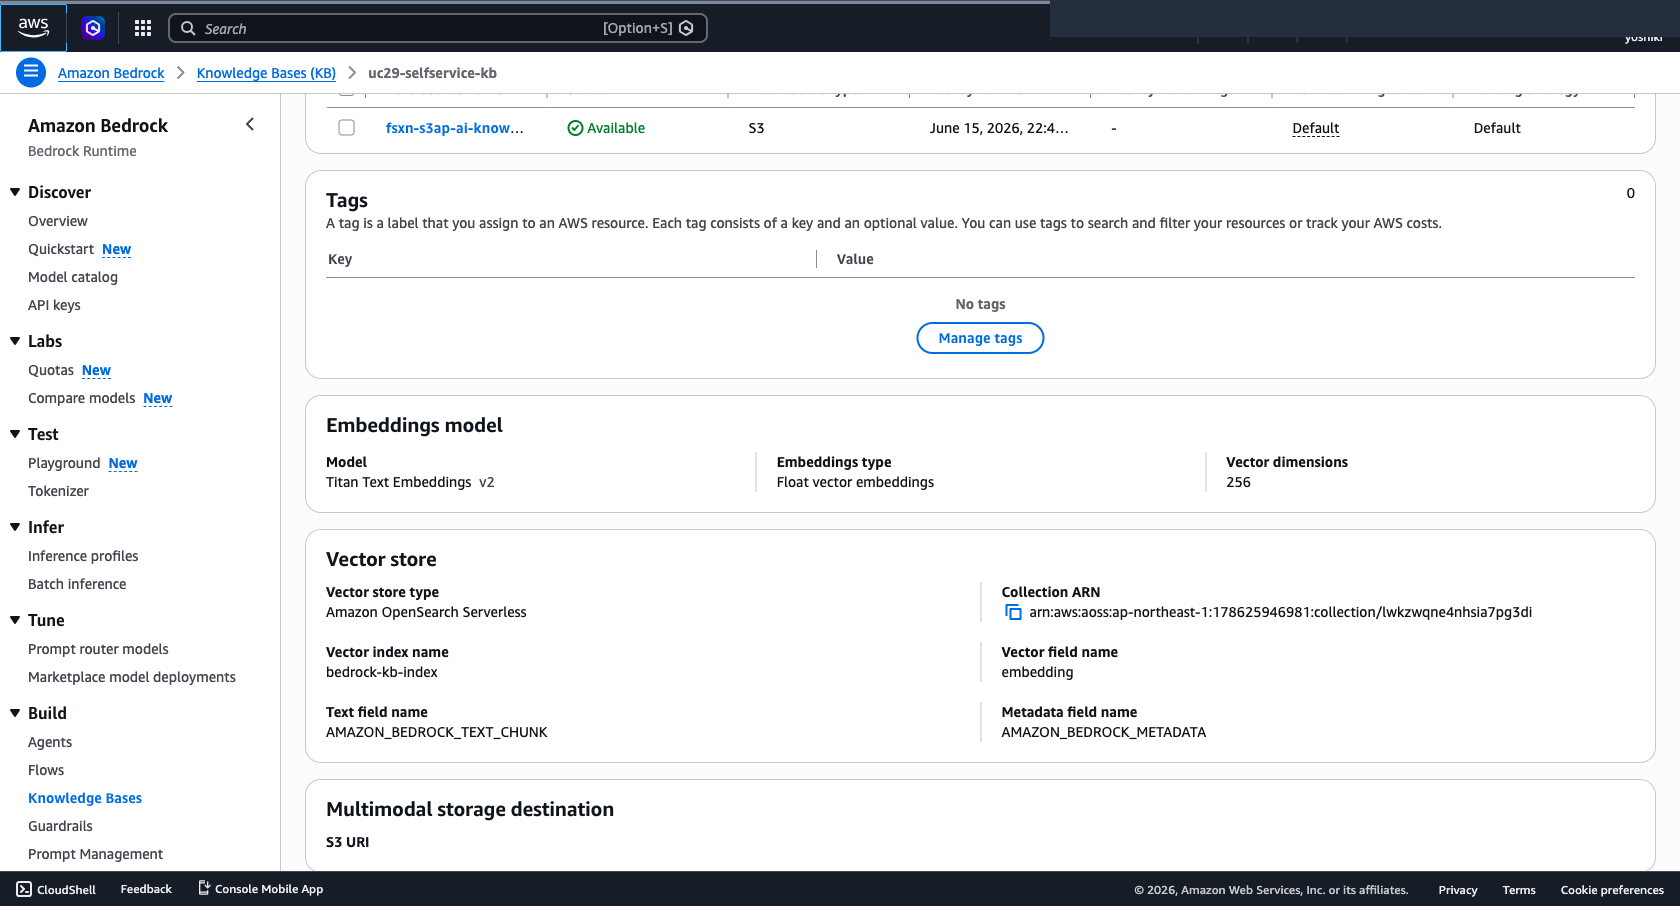
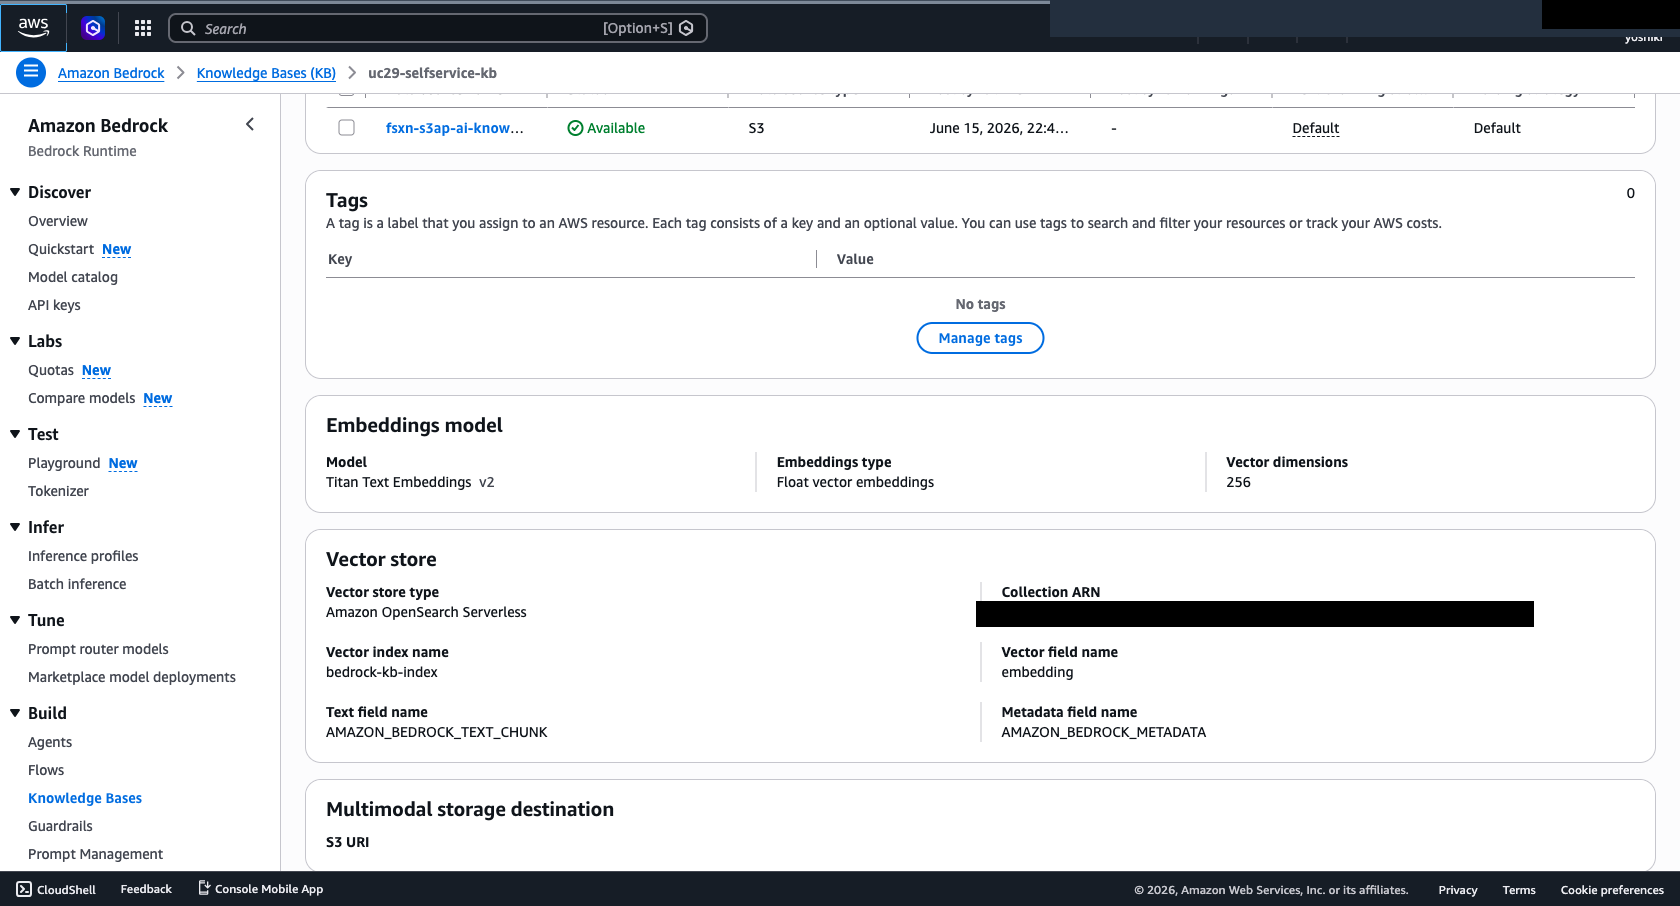
fix: mask AWS account IDs in console screenshots with black rectangles Applied black masks over regions containing AWS account ID (178625946981) in console screenshots: - step-functions-execution-succeeded.png: Execution ARN, IAM role ARN, top-right badge - bedrock-kb-datasource-sync.png: Collection

Changed region(s): [[0.5571, 0.649, 0.9286, 0.7108], [0.8976, 0.0, 1.0, 0.0309]]

diff --git a/scripts/mask_account_ids.py b/scripts/mask_account_ids.py
@@ -1,0 +1,109 @@
+#!/usr/bin/env python3
+"""Mask AWS account IDs and sensitive ARNs in screenshots.
+
+This script applies rectangular masks over regions containing
+AWS account IDs (123456789012) in console screenshots.
+
+All screenshots are 1680x906 (Phase 16 set).
+"""
+
+from PIL import Image, ImageDraw
+import os
+
+# Uniform black mask for all regions — clearly communicates redaction
+MASK_COLOR = (0, 0, 0)
+
+
+def mask_regions(input_path, regions, output_path=None):
+    """Apply colored rectangles over specified regions.
+    
+    Args:
+        input_path: Path to source image
+        regions: List of (x1, y1, x2, y2, color) tuples
+        output_path: Where to save (defaults to overwrite input)
+    """
+    if output_path is None:
+        output_path = input_path
+    
+    img = Image.open(input_path)
+    draw = ImageDraw.Draw(img)
+    
+    for x1, y1, x2, y2, color in regions:
+        draw.rectangle([x1, y1, x2, y2], fill=color)
+    
+    img.save(output_path, 'PNG')
+    print(f"  Masked {len(regions)} regions: {os.path.basename(output_path)}")
+
+
+def main():
+    base_uc29 = 'solutions/genai/kb-selfservice-curation/docs/screenshots/masked'
+    base_uc30 = 'solutions/genai/quick-agentic-workspace/docs/screenshots/masked'
+    
+    print("Phase 16 (UC29) screenshots:")
+    
+    # 1. step-functions-execution-succeeded.png (1680x906)
+    # Coordinates derived from attached 1024x558 images, scaled by ~1.64x/1.62y
+    # Exposed: Execution ARN, IAM role ARN, top-right badge
+    mask_regions(f'{base_uc29}/step-functions-execution-succeeded.png', [
+        # Top-right account badge "yoshiki" (attached: x≈940~1024, y≈0~17)
+        (1542, 0, 1680, 28, MASK_COLOR),
+        # Execution ARN line (attached: x≈200~535, y≈210~240)
+        (328, 341, 877, 390, MASK_COLOR),
+        # IAM role ARN line (attached: x≈200~530, y≈260~275)
+        (328, 422, 870, 447, MASK_COLOR),
+    ])
+    
+    # 2. bedrock-kb-datasource-sync.png (1680x906)
+    # Exposed: Collection ARN with account ID, top-right badge
+    mask_regions(f'{base_uc29}/bedrock-kb-datasource-sync.png', [
+        # Top-right account badge (same position as step-functions)
+        (1542, 0, 1680, 28, MASK_COLOR),
+        # Collection ARN (attached: x≈595~935, y≈370~385)
+        (976, 601, 1533, 626, MASK_COLOR),
+    ])
+    
+    # 3. bedrock-kb-detail.png - likely has account ARNs too
+    if os.path.exists(f'{base_uc29}/bedrock-kb-detail.png'):
+        mask_regions(f'{base_uc29}/bedrock-kb-detail.png', [
+            (1542, 0, 1680, 28, MASK_COLOR),
+        ])
+    
+    # 4. bedrock-kb-list.png - may show KB ARN
+    if os.path.exists(f'{base_uc29}/bedrock-kb-list.png'):
+        mask_regions(f'{base_uc29}/bedrock-kb-list.png', [
+            (1542, 0, 1680, 28, MASK_COLOR),
+        ])
+    
+    # 5. scenario-c-eventbridge-rule.png - EventBridge rule
+    if os.path.exists(f'{base_uc29}/scenario-c-eventbridge-rule.png'):
+        mask_regions(f'{base_uc29}/scenario-c-eventbridge-rule.png', [
+            (1542, 0, 1680, 28, MASK_COLOR),
+        ])
+    
+    # 6. windows-explorer-quickaccess.png - Windows, likely no AWS account
+    # But check top-right area just in case
+    
+    # 7. windows-smb-product-catalog.png - Windows Explorer, no AWS console
+    
+    # 8. windows-smb-share-roles.png - Windows Explorer, no AWS console
+    
+    print("\nPhase 17 (UC30) screenshots:")
+    
+    # UC30 screenshots (1680x906 for AWS console ones)
+    for fname in ['athena-recent-queries.png', 'cloudformation-stacks.png']:
+        fpath = f'{base_uc30}/{fname}'
+        if os.path.exists(fpath):
+            mask_regions(fpath, [
+                # Top-right account badge
+                (1542, 0, 1680, 28, MASK_COLOR),
+            ])
+    
+    # Quick screenshots are different size (1512x805) - likely no AWS account ID
+    # but verify Quick-specific ones don't show ARNs
+    
+    print("\nDone. Verify visually before re-uploading to dev.to.")
+    print("\nREMINDER: Re-upload masked images to dev.to to replace the old ones.")
+
+
+if __name__ == '__main__':
+    main()

diff --git a/scripts/_check_screenshots.py b/scripts/_check_screenshots.py
@@ -1,0 +1,16 @@
+#!/usr/bin/env python3
+"""Check all screenshot sizes."""
+from PIL import Image
+import os
+
+bases = [
+    'solutions/genai/kb-selfservice-curation/docs/screenshots/masked',
+    'solutions/genai/quick-agentic-workspace/docs/screenshots/masked',
+]
+
+for base in bases:
+    print(f"\n{base}/")
+    for f in sorted(os.listdir(base)):
+        if f.endswith('.png'):
+            im = Image.open(os.path.join(base, f))
+            print(f"  {f}: {im.size}")
